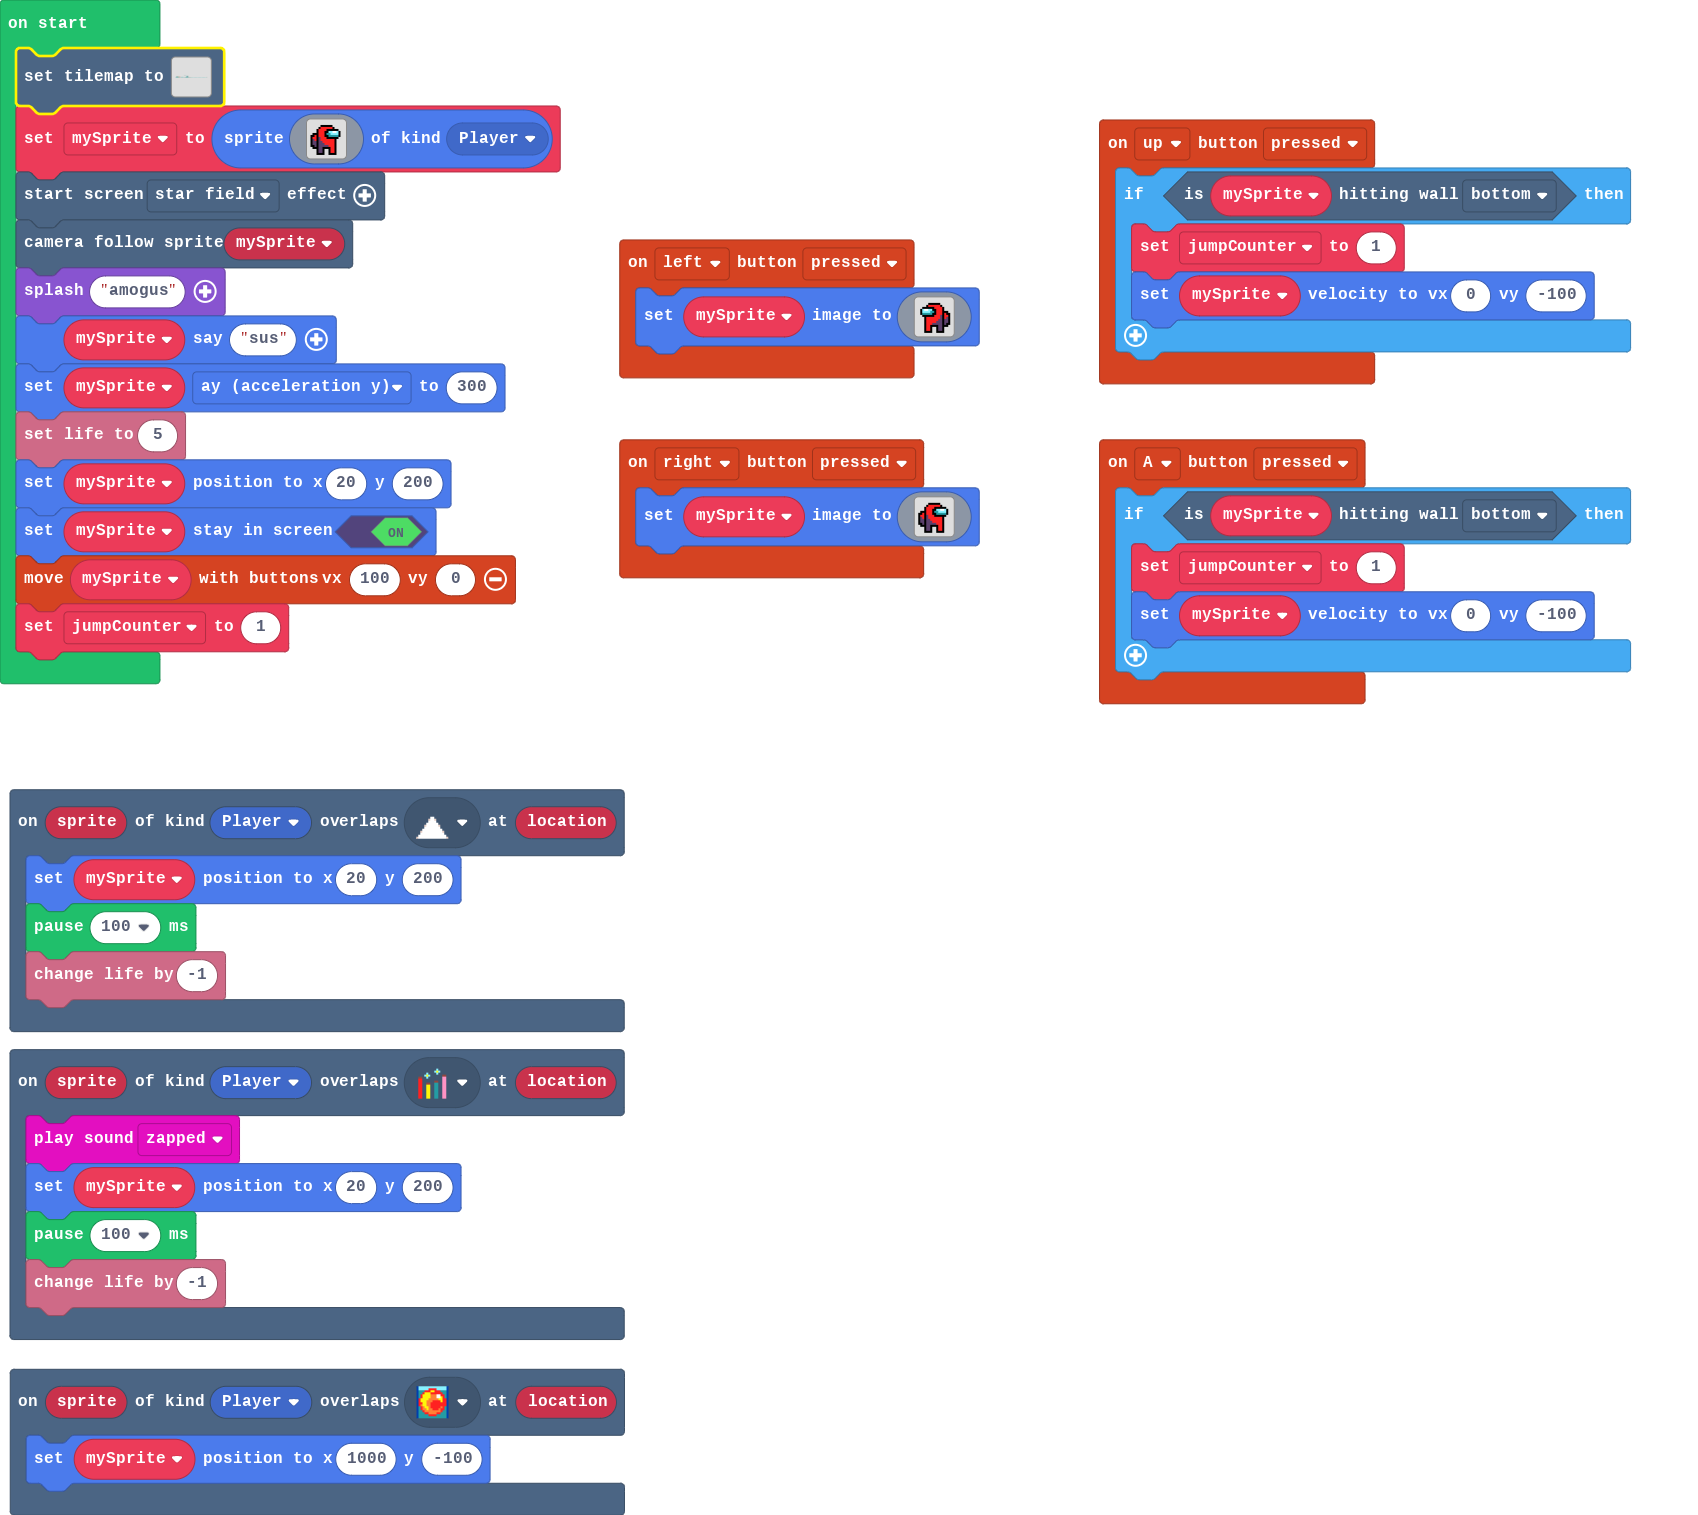
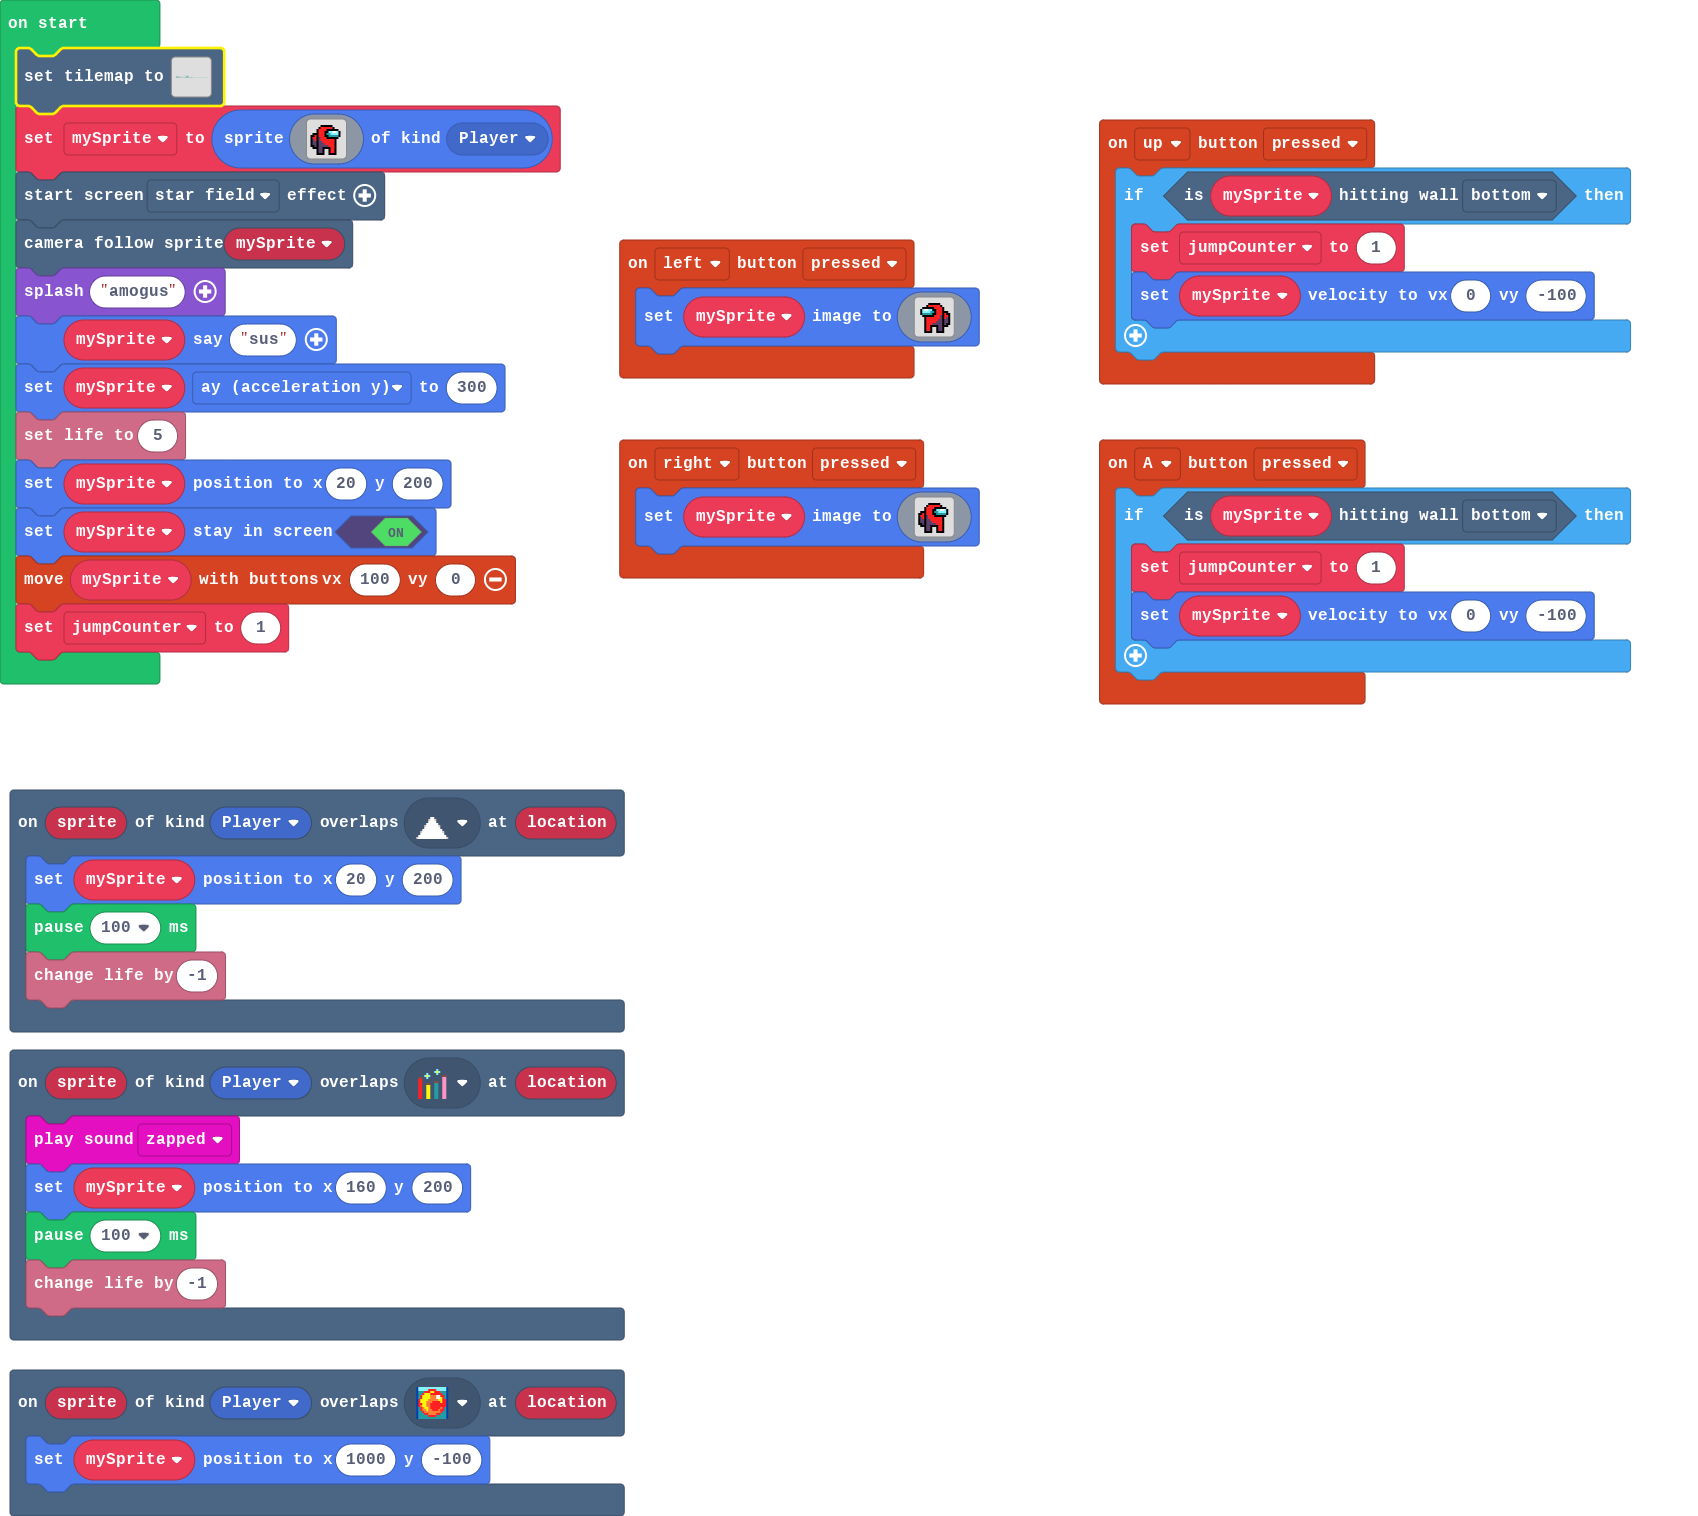
Update main.blocks, main.ts, tilemap.g.jres, tilemap.g.ts

diff --git a/tilemap.g.ts b/tilemap.g.ts
@@ -40,7 +40,7 @@ namespace myTiles {
     helpers._registerFactory("tilemap", function(name: string) {
         switch(helpers.stringTrim(name)) {
             case "level1":
[2 lines of base64/hex data omitted]
 ........................................................................................................................................................................................................
 ........................................................................................................................................................................................................
 ........................................................................................................................................................................................................
@@ -54,7 +54,7 @@ namespace myTiles {
 .........................22...22.......................................22222222.........................................................................................................................
 ........2222222...2222...22.......22..................................2222..............................................................................................................................
 .......22222222...2222...22..........................................22222..............................................................................................................................
-......222222222...2222...22.............2222222.....................222222....2.........................................................................................................................
+......222222222...2222...22.............2222222.....................222222....2.....................2222222.............................................................................................
 .....2222222222...2222...22.............2222222....22....22....22222222222...2222....222....22222.......................................................................................................
 22222222222222222222222222222222222222222222222222222222222222222222222222222222222222222222222222222222222222222222222222222222222222222222222222222222222222222222222222222222222222222222222222222222
 `, [myTiles.transparency16,myTiles.tile1,myTiles.tile3,myTiles.tile4,myTiles.tile6,myTiles.tile7,myTiles.tile8,myTiles.tile14,myTiles.tile15,myTiles.tile16,myTiles.tile18,myTiles.tile19,myTiles.tile17,myTiles.tile11,myTiles.tile12,myTiles.tile13,myTiles.tile20], TileScale.Sixteen);

diff --git a/main.ts b/main.ts
@@ -40,7 +40,7 @@ controller.left.onEvent(ControllerButtonEvent.Pressed, function () {
 })
 scene.onOverlapTile(SpriteKind.Player, assets.tile`wires`, function (sprite, location) {
     music.zapped.play()
-    mySprite.setPosition(20, 200)
+    mySprite.setPosition(160, 200)
     pause(100)
     info.changeLifeBy(-1)
 })
